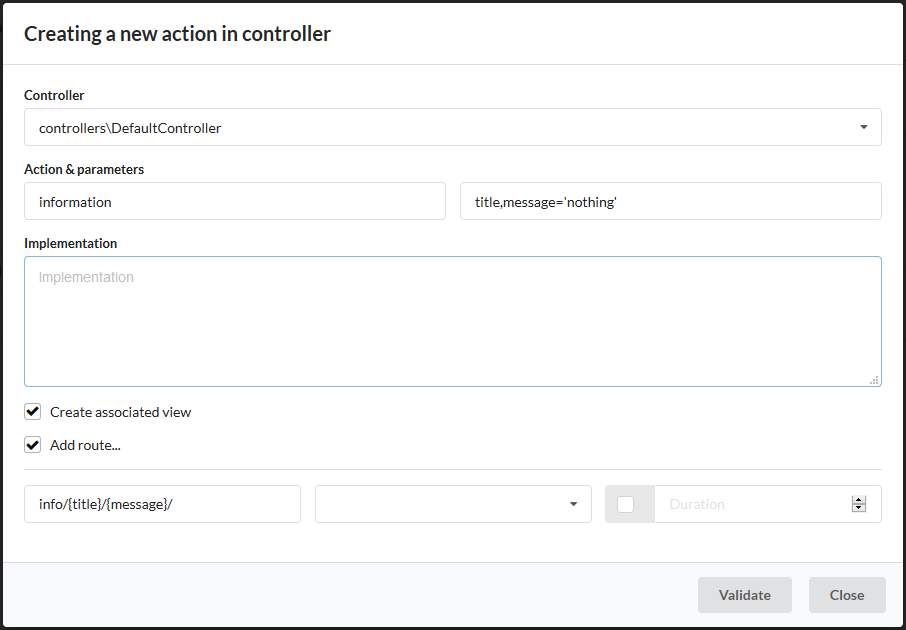
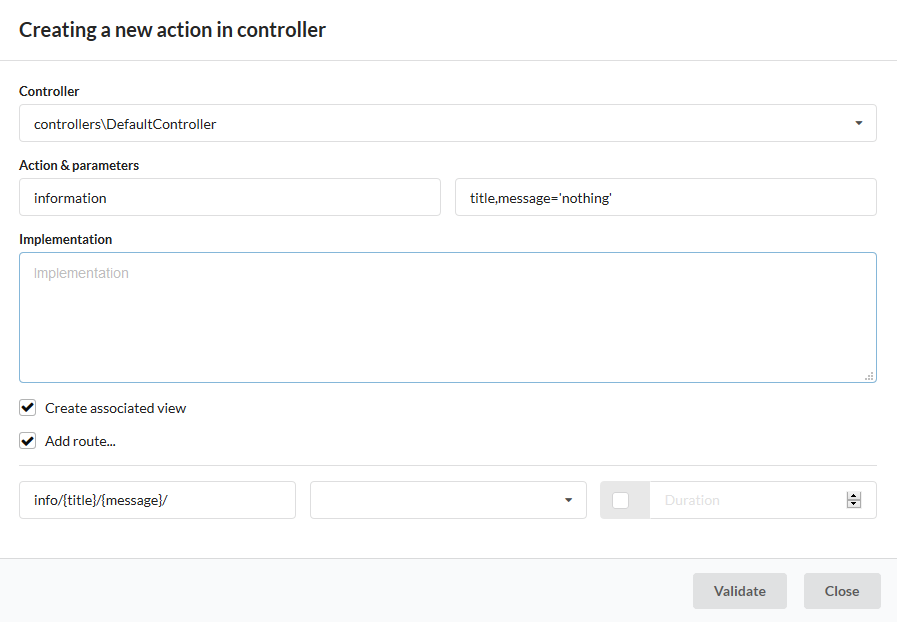
update doc images

Changed region(s): [[0.0, 0.0, 1.0, 1.0], [0.5307, 0.3055, 0.9677, 0.3666]]

diff --git a/docs/quickstart/quickstart-html.rst b/docs/quickstart/quickstart-html.rst
@@ -21,6 +21,7 @@ Test your recent installation by doing:
    Ubiquity version
    
 .. image:: /_static/images/quick-start/ubi-version.png
+   :class: console
 
 You can get at all times help with a command by typing: ``Ubiquity help`` followed by what you are looking for.
 
@@ -84,6 +85,7 @@ Goto admin interface by clicking on the button **UbiquityMyAdmin**:
 The web application **UbiquityMyAdmin** saves time in repetitive operations.
 
 .. image:: /_static/images/quick-start-2/ubi-my-admin-interface.png
+   :class: bordered
 
 We go through it to create a controller.
 
@@ -94,7 +96,7 @@ Go to the **controllers** part, enter **DefaultController** in the **controllerN
 The controller **DefaultController** is created:
 
 .. image:: /_static/images/quick-start-2/controller-created.png
-
+   :class: bordered
 
 We can then edit ``app/controllers/DefaultController`` file in our favorite IDE:
 
@@ -171,6 +173,7 @@ Go to the **Routes** section and click on the **re-init cache** button
 The route now appears in the interface:
 
 .. image:: /_static/images/quick-start-2/1-route.png
+   :class: bordered
 
 We can now test the page by clicking on the **GET** button or by going to the address ``http://127.0.0.1:8090/hello``
 
@@ -191,6 +194,7 @@ Go to the **Controllers** section:
 Enter the action information in the following form:
 
 .. image:: /_static/images/quick-start-2/create-action.png
+   :class: bordered
 
 After re-initializing the cache with the orange button, we can see the new route **hello/to/{name}**:
 
@@ -204,10 +208,12 @@ Check the route creation by going to the Routes section:
 We can now test the page by clicking on the **GET** button:
 
 .. image:: /_static/images/quick-start-2/test-action.png
+   :class: bordered
 
 We can see the result:
 
 .. image:: /_static/images/quick-start-2/test-action-result.png
+   :class: bordered
 
 We could directly go to ``http://127.0.0.1:8090/hello/to/Mr SMITH`` address to test 
 
@@ -224,6 +230,7 @@ In the **Controllers** section, create another action on **DefaultController**:
 Enter the action information in the following form:
 
 .. image:: /_static/images/quick-start-2/create-action-view.png
+   :class: bordered
 
 .. note:: The view checkbox is used to create the view associated with the action.
 

diff --git a/docs/quickstart/quickstart.rst b/docs/quickstart/quickstart.rst
@@ -22,6 +22,7 @@ Test your recent installation by doing:
    Ubiquity version
    
 .. image:: /_static/images/quick-start/ubi-version.png
+   :class: console
 
 You can get at all times help with a command by typing: ``Ubiquity help`` followed by what you are looking for.
 
@@ -159,6 +160,7 @@ We can use the console for the cache re-initialization:
    Ubiquity init-cache
 
 .. image:: /_static/images/quick-start/init-cache.png
+   :class: console
 
 Let's check that the route exists:
 
@@ -167,6 +169,7 @@ Let's check that the route exists:
    Ubiquity info:routes
 
 .. image:: /_static/images/quick-start/info-routes.png
+   :class: console
 
 We can now test the page at ``http://127.0.0.1:8090/hello``
 
@@ -181,10 +184,12 @@ The route will use the parameter **name** of the action:
 	Ubiquity action DefaultController.sayHello -p=name -r=to/{name}/
 	
 .. image:: /_static/images/quick-start/action-creation.png
+   :class: console
 
 After re-initializing the cache (**init-cache** command), the **info:routes** command should display:
 
 .. image:: /_static/images/quick-start/2-routes.png
+   :class: console
 
 Change the code in your IDE: the action must say Hello to somebody...
 
@@ -216,6 +221,7 @@ The route will use the two parameters of the action.
 After re-initializing the cache, we now have 3 routes:
 
 .. image:: /_static/images/quick-start/3-routes.png
+   :class: console
 
 Let's go back to our development environment and see the generated code:
 
